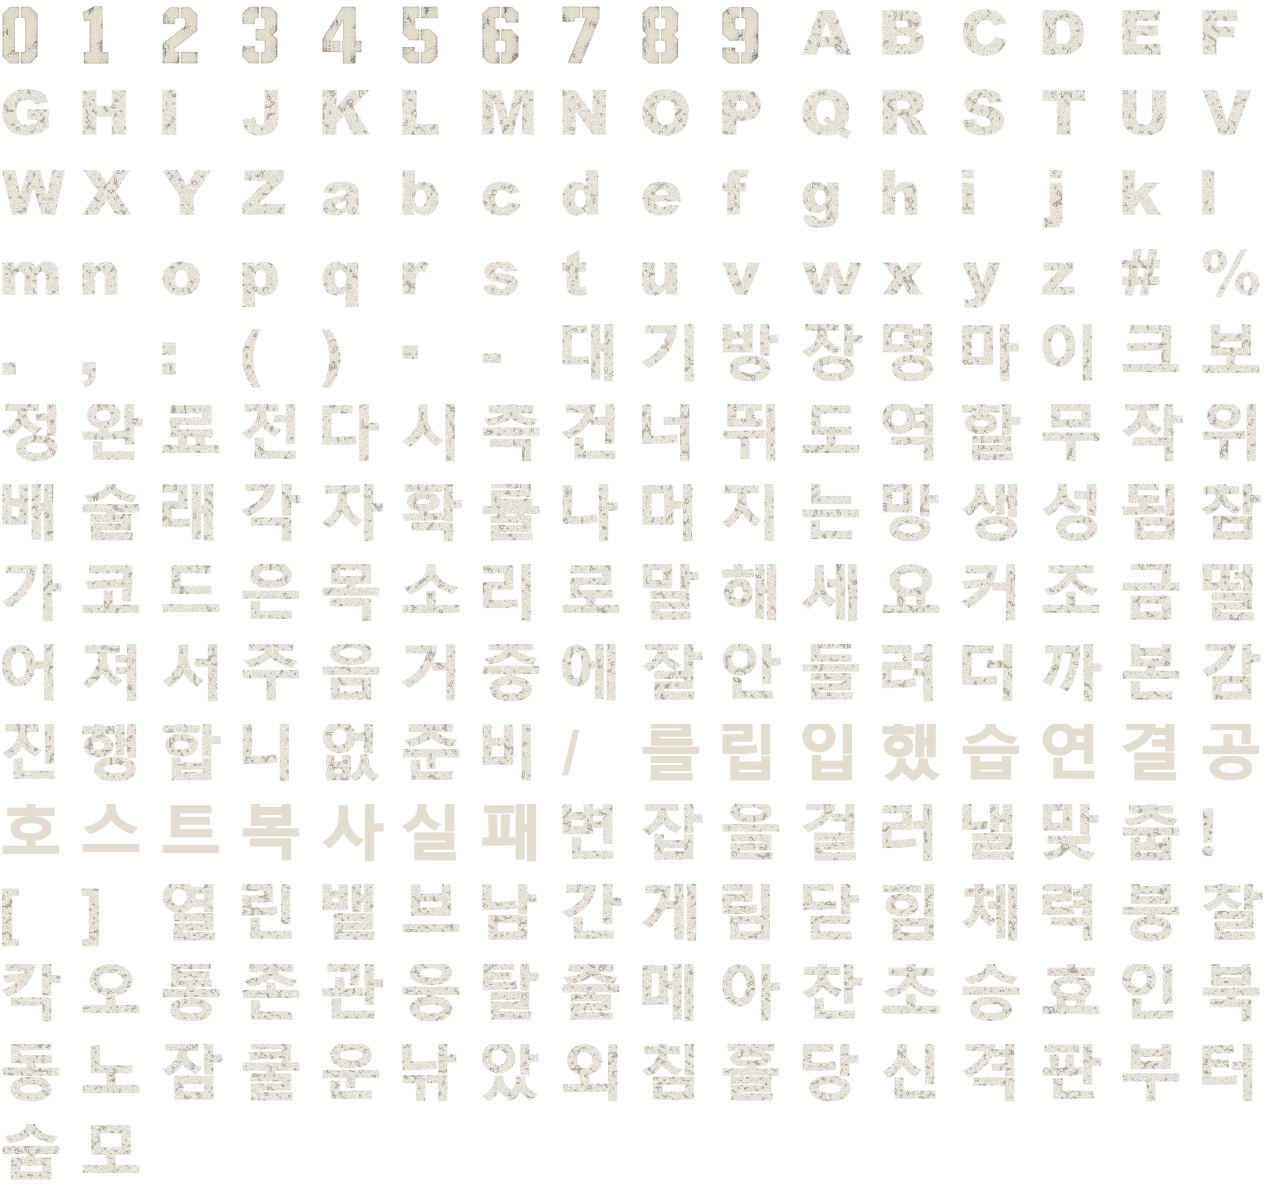
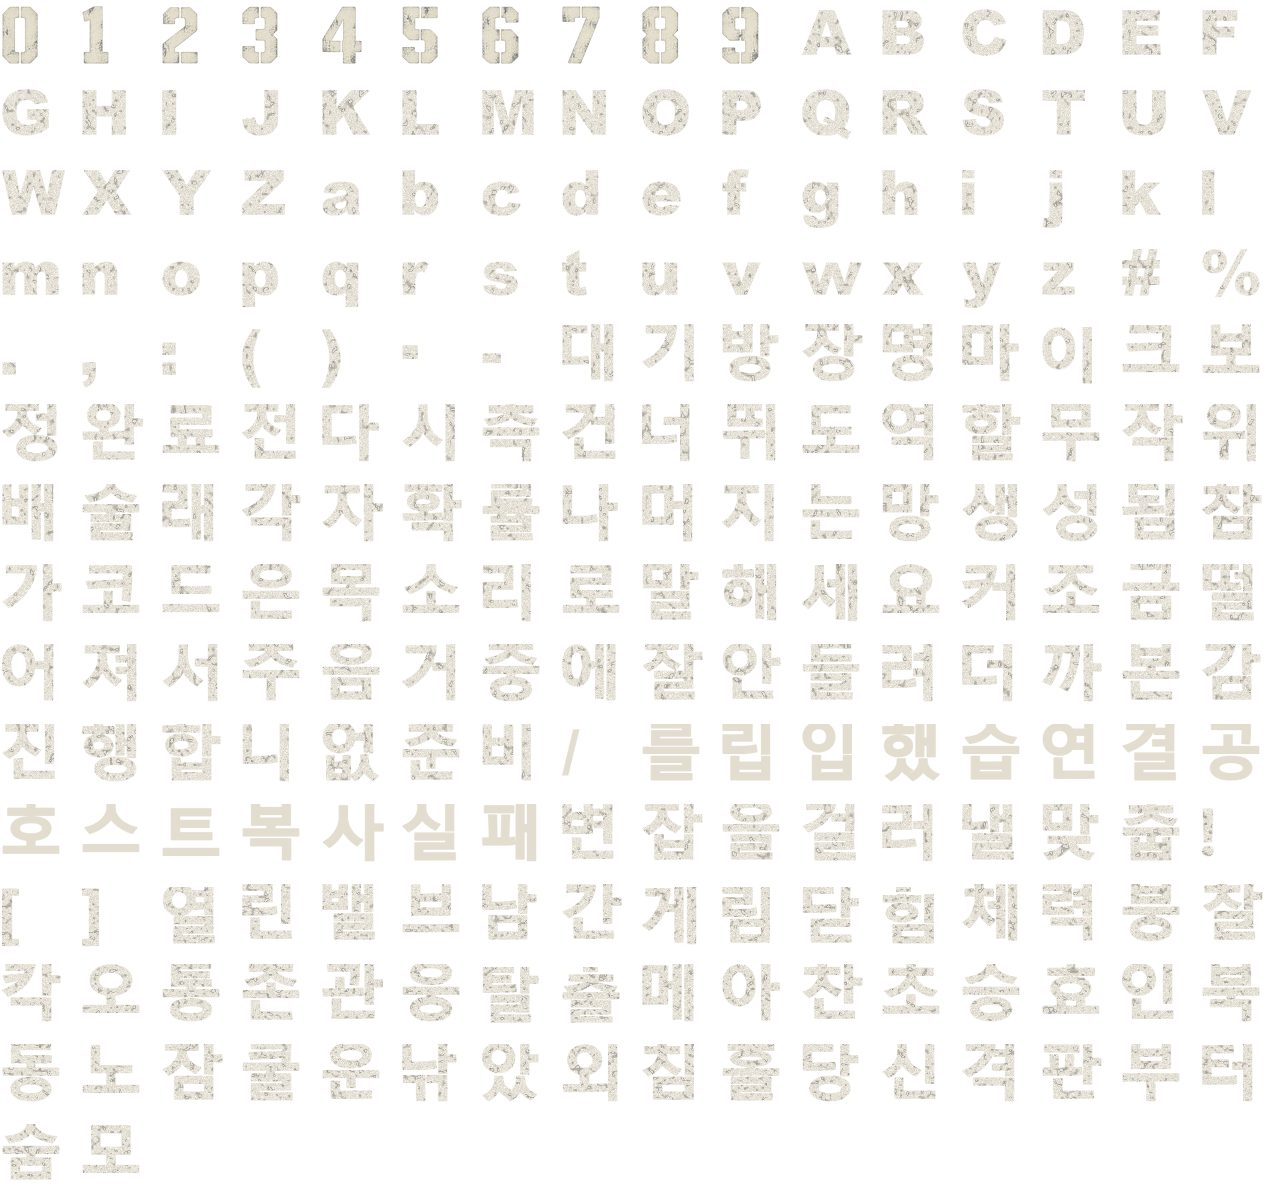
text

diff --git a/Assets/Scripts/Network/NetworkTestHud.cs b/Assets/Scripts/Network/NetworkTestHud.cs
@@ -54,9 +54,10 @@ namespace Marco.Network
                 hudVoiceOwner = local;
                 hudVoice = local != null ? local.GetComponentInChildren<MicrophoneVisionController>(true) : null;
             }
-            bool aliveRunner = local != null && local.Role == PlayerRole.Runner && local.Status == PlayerStatus.Alive;
-            float paperOpacity = aliveRunner ? Mathf.SmoothStep(0f, 1f, hudVoice != null ? hudVoice.HudVisionLevel : 0f) : 1f;
-            if (aliveRunner &&
+            bool usesVoiceVision = local != null && local.Status == PlayerStatus.Alive &&
+                (local.Role == PlayerRole.Runner || local.Role == PlayerRole.Seeker);
+            float paperOpacity = usesVoiceVision ? Mathf.SmoothStep(0f, 1f, hudVoice != null ? hudVoice.HudVisionLevel : 0f) : 1f;
+            if (usesVoiceVision && local.Role == PlayerRole.Runner &&
                 !local.HasHealingAction && round.Result == RoundResult.InProgress)
                 RuinedUi.Reticle(new Vector2(TestHudSkin.Width * .5f, TestHudSkin.Height * .5f), Color.white, 24);
             DrawIdentity(local, paperOpacity);
@@ -218,12 +219,14 @@ namespace Marco.Network
         {
             const float slotSize = 30, slotGap = 5;
             int required = round.EscapeRequiredCount, escaped = round.EscapedCount;
-            float x = row.x + (row.width - 108 - required * (slotSize + slotGap)) * .5f;
+            const float labelWidth = 54, numberWidth = 52, gap = 6;
+            float textWidth = labelWidth + numberWidth + 2 * gap;
+            float x = row.x + (row.width - textWidth - required * (slotSize + slotGap)) * .5f;
             var accent = escaped >= required ? new Color(.55f, .94f, .85f) : Color.white;
-            Lobby.RoomLettering.Draw(new Rect(x, row.y, 43, row.height), "탈출", 23, accent);
-            InterfaceArt.Number(new Rect(x + 47, row.y + 8, 52, 26), $"{escaped}/{required}");
+            Lobby.RoomLettering.Draw(new Rect(x, row.y, labelWidth, row.height), "탈출", 28, accent);
+            InterfaceArt.Number(new Rect(x + labelWidth + gap, row.y + 8, numberWidth, 26), $"{escaped}/{required}");
             for (int slot = 0; slot < required; slot++)
-                InterfaceArt.Draw(new Rect(x + 108 + slot * (slotSize + slotGap), row.y + 6, slotSize, slotSize),
+                InterfaceArt.Draw(new Rect(x + textWidth + slot * (slotSize + slotGap), row.y + 6, slotSize, slotSize),
                     slot < escaped ? "ready" : "waiting");
         }
 
@@ -264,12 +267,12 @@ namespace Marco.Network
             {
                 bool isOpen = slot < open;
                 var row = new Rect(inner.x, inner.y + 30 + slot * (ValveRowHeight + ValveRowGap), inner.width, ValveRowHeight);
-                Color state = isOpen ? Gold : new Color(.65f, .63f, .59f);
+                Color state = isOpen ? Gold : new Color(.88f, .86f, .81f);
                 TestHudSkin.Fill(row, isOpen ? new Color(.29f, .21f, .11f, .8f * paperOpacity) : new Color(0, 0, 0, .3f * paperOpacity));
                 TestHudSkin.Fill(new Rect(row.x, row.y, 2, row.height), state);
                 DrawInkIcon(new Rect(row.x + 8, row.y + 4, 40, 40), isOpen ? "valveOpen" : "valve");
                 Lobby.RoomLettering.Draw(new Rect(row.x + 55, row.y, row.width - 59, row.height),
-                    isOpen ? "열림" : "닫힘", 17, state, centered: true);
+                    isOpen ? "열림" : "닫힘", 25, state, centered: true);
             }
         }
 

diff --git a/Assets/Scripts/Network/Lobby/LobbyMenu.cs b/Assets/Scripts/Network/Lobby/LobbyMenu.cs
@@ -251,7 +251,7 @@ namespace Marco.Network.Lobby
             var readyButton = new Rect(pad, actionsY, inner * .62f - 5, 42);
             GUI.enabled = local != null && local.IsClientInitialized && !string.IsNullOrEmpty(local.Nickname);
             bool localReady = local != null && local.LobbyReady;
-            if (RoomButton(readyButton, localReady ? "준비 취소" : "준비", 24, primary: !localReady, useLettering: true))
+            if (RoomButton(readyButton, localReady ? "다시 대기" : "준비", 24, primary: !localReady, useLettering: true))
                 local.SetLobbyReadyServer(!localReady);
             if (countdown > 0)
                 InterfaceArt.Draw(new Rect(readyButton.xMax - 57, readyButton.y + 5, 36, 32), "count" + countdown);
